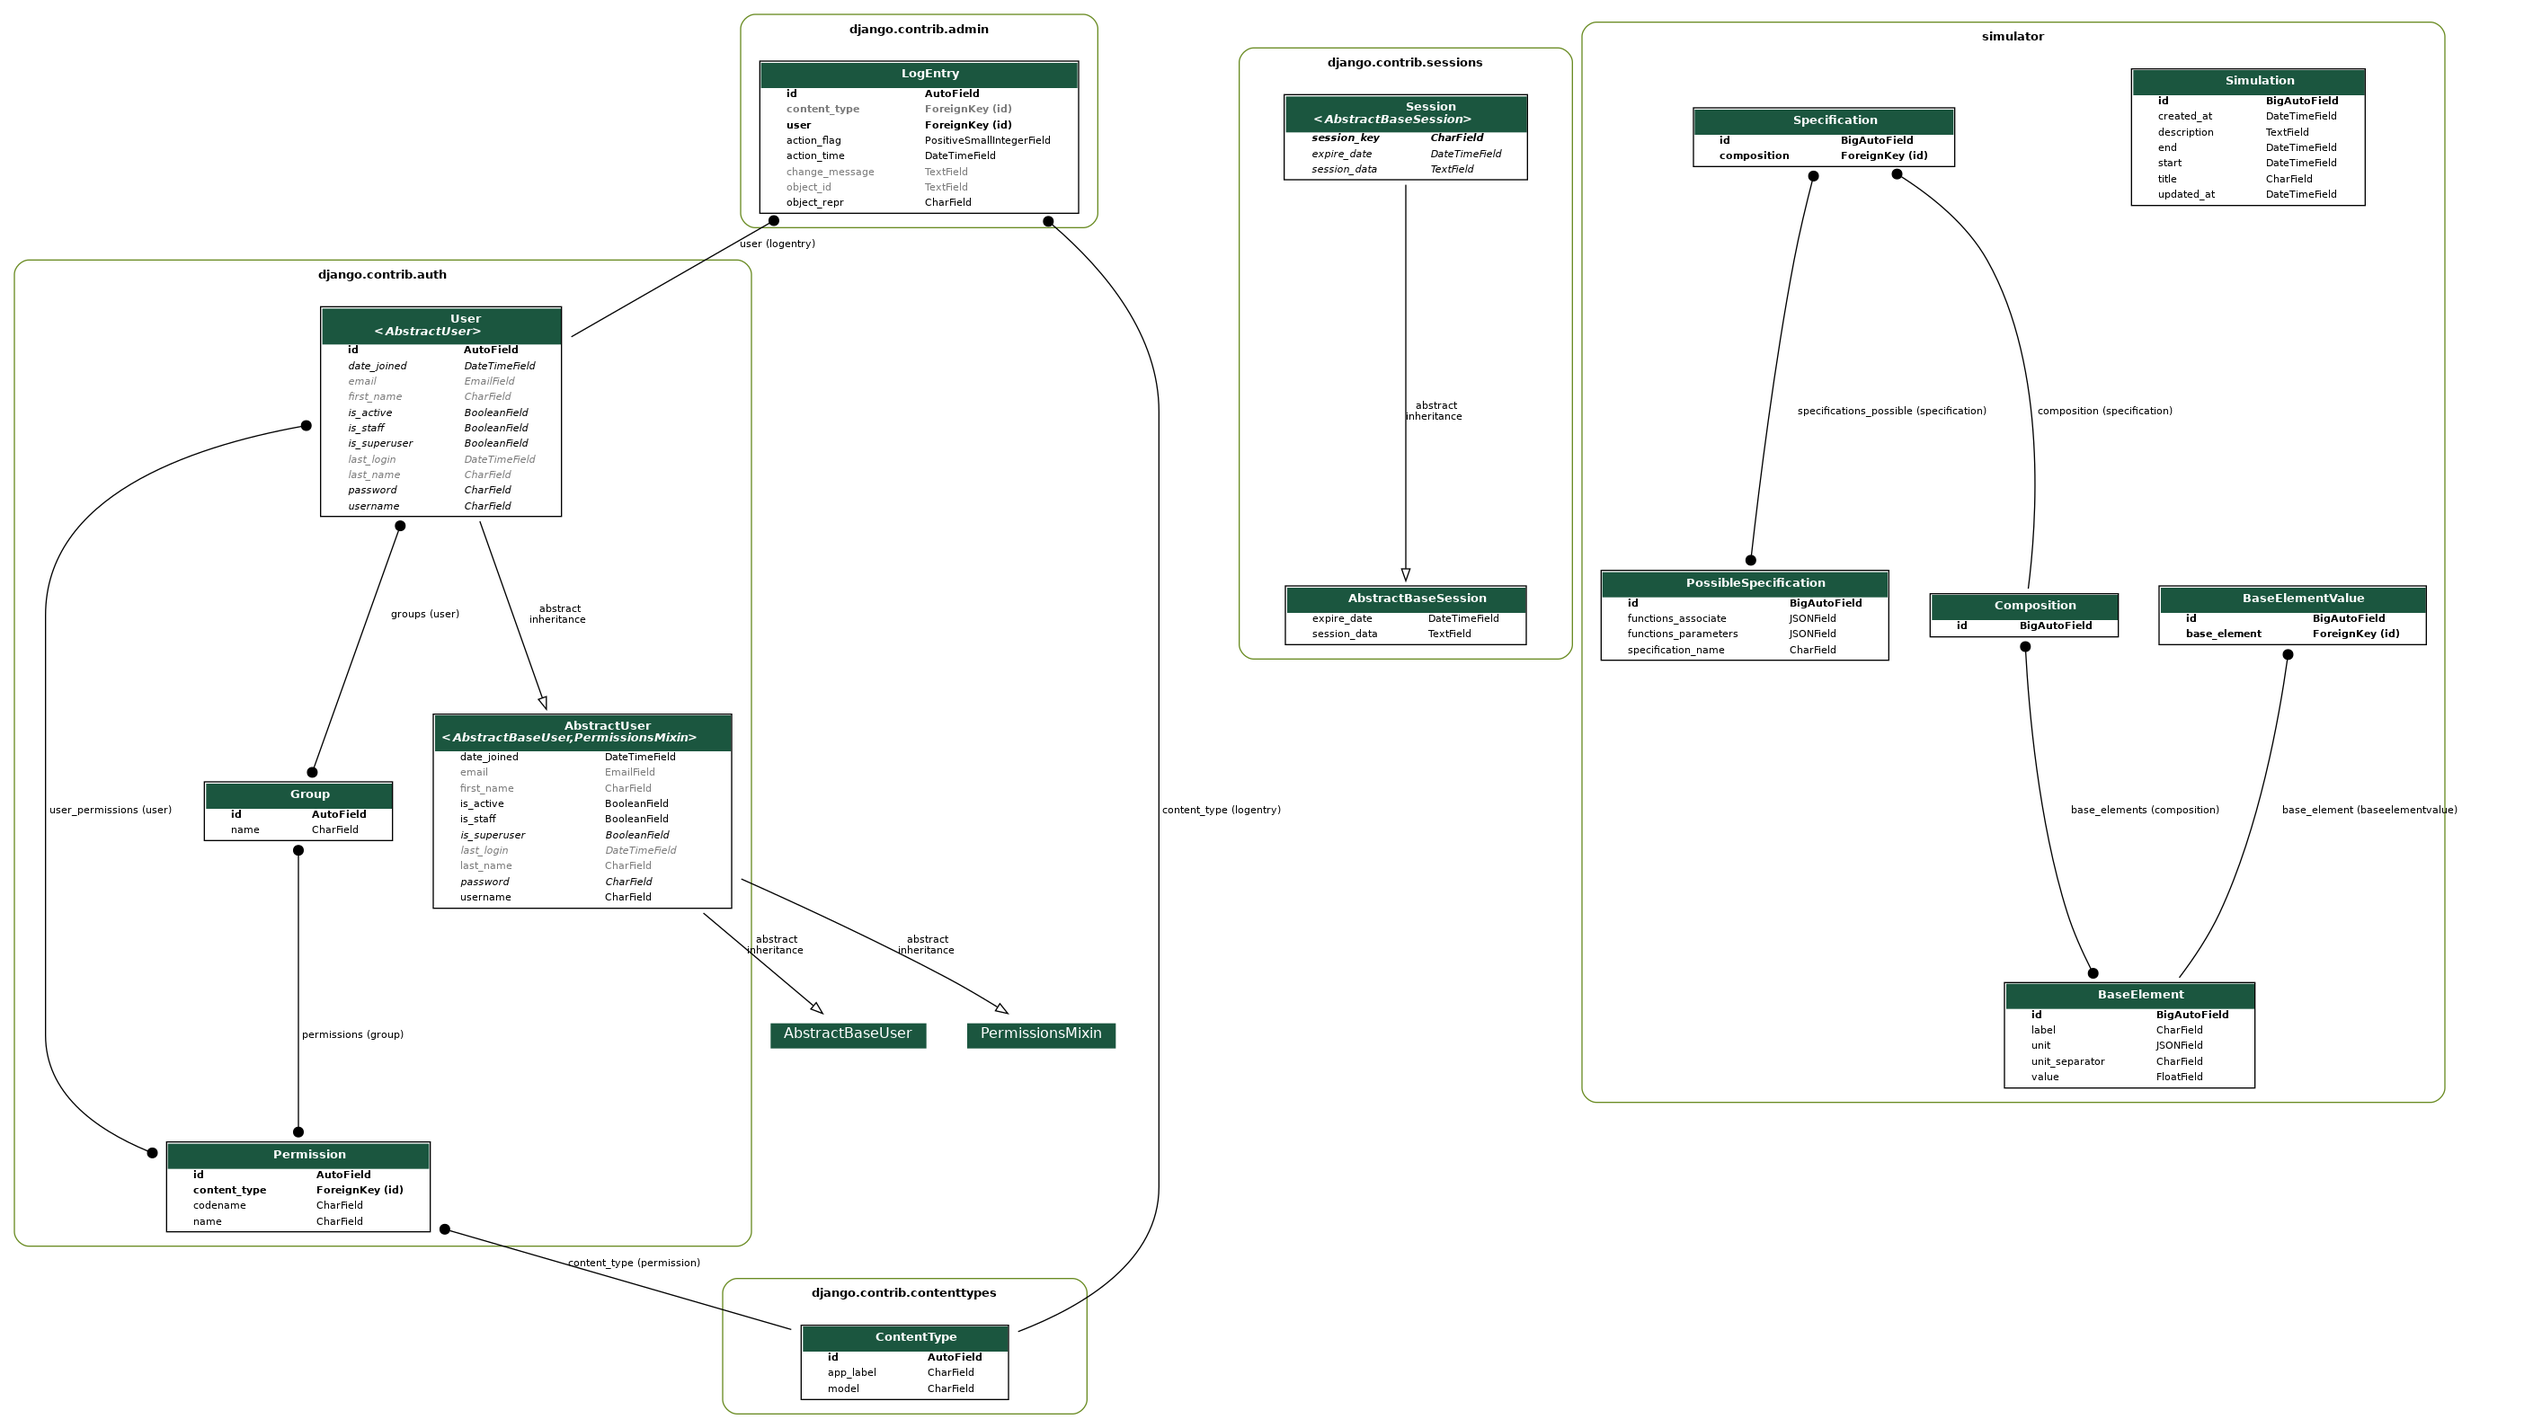
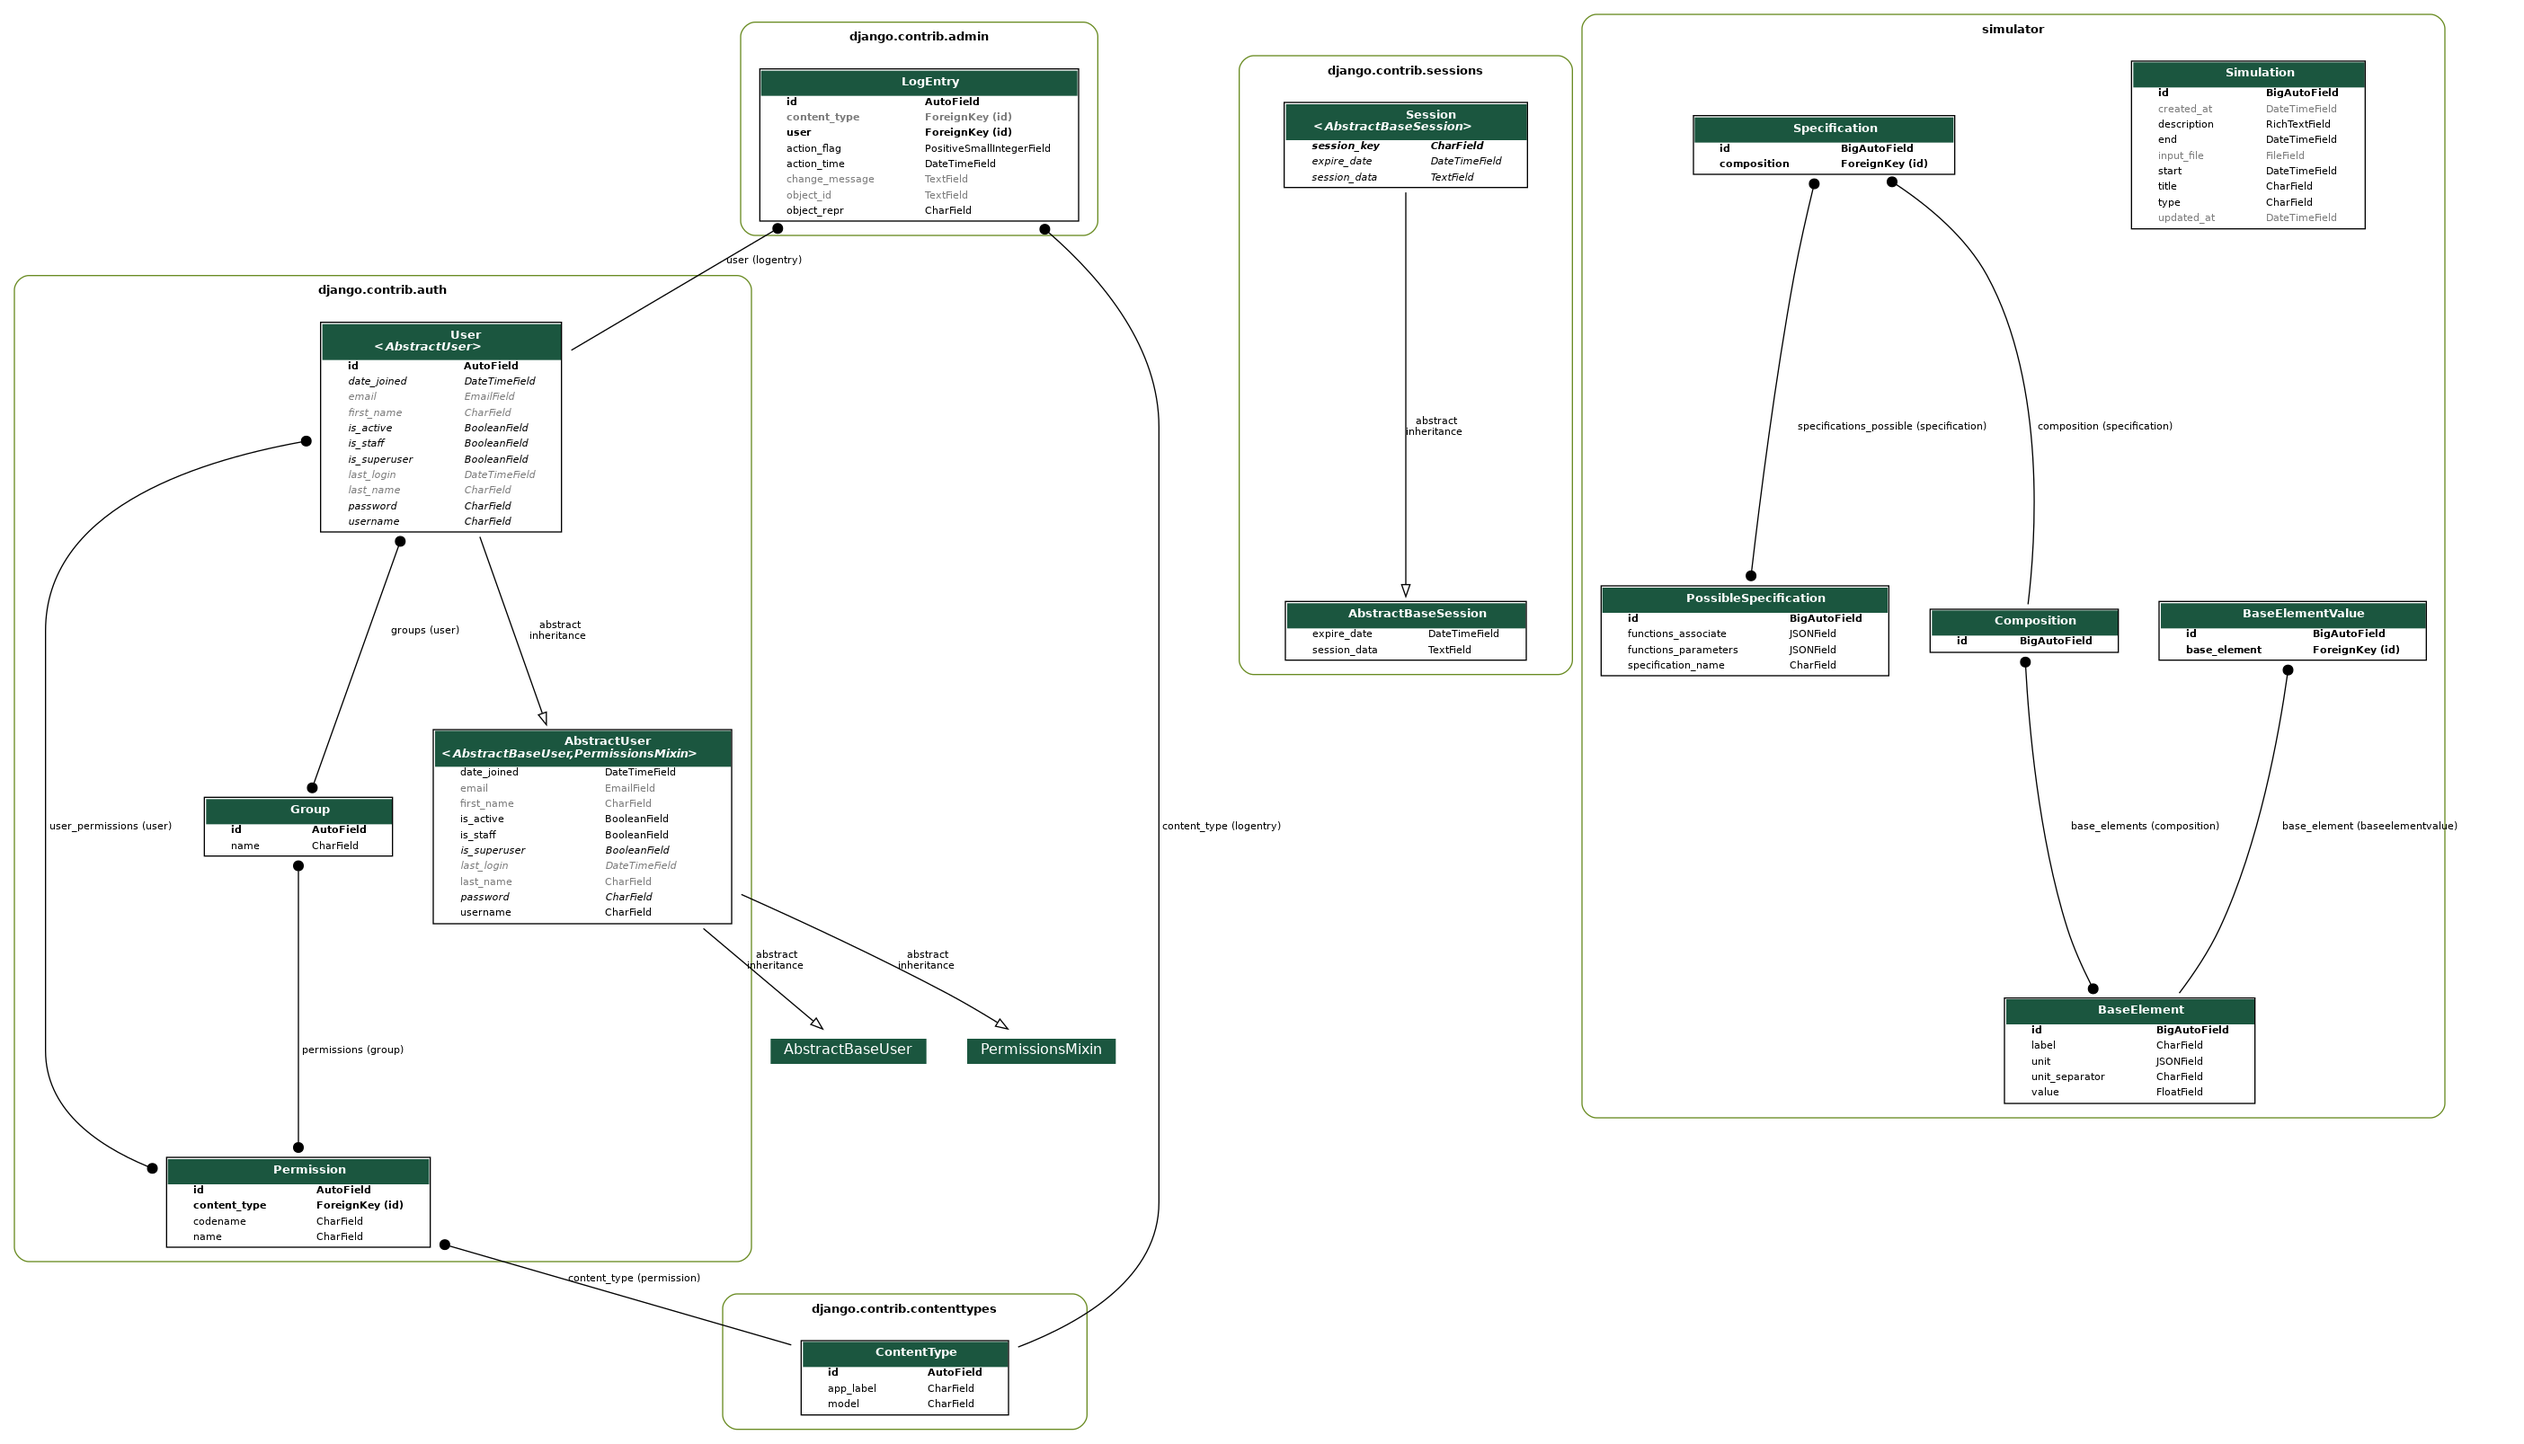
add CRUD system for simulation

diff --git a/web/simulator/templates/dashboard/index.html b/web/simulator/templates/dashboard/index.html
@@ -1,13 +1,33 @@
 {% extends "base.html" %}
 
 {% block content %} 
-{% load crispy_forms_tags %}
 <div class="container py-5">
-  <h1>Dashboard</h1>
-  <form method="POST" enctype="multipart/form-data">
-    {% csrf_token %}
-    {{ simulation_form|crispy }}
-    <button class="btn btn-primary" type="submit">Make a simulation</button>
-  </form>
+    <h1>Simulation's List</h1>
+    {% if simulations %}
+        <div class="table-responsive">
+            <table class="table">
+                <thead>
+                    <tr>
+                        <th scope="col">Project Name</th>
+                        <th scope="col">Type</th>
+                        <th scope="col">Project Description</th>
+                        <th scope="col">Date Created</th>
+                    </tr>
+                </thead>
+                <tbody>
+                    {% for simulation in simulations %}
+                    <tr>
+                        <td><a href="/detail/{{simulation.id}}">{{ simulation.title|title }}</a></td>
+                        <td>{{ simulation.type }}</td>
+                        <td>{{ simulation.description|safe }}</td>
+                        <td>{{ simulation.created_at|date:'Y/M/d' }}</td>
+                    </tr>
+                    {% endfor %}
+                </tbody>
+            </table>
+        </div>
+    {% else %}
+        <p class="text-center mt-3">There is no simulation created in the system. Do you want to <a href="/new">create one</a> ?</p>
+    {% endif %}
 </div>
 {% endblock %}

diff --git a/web/simulator/templates/base.html b/web/simulator/templates/base.html
@@ -16,7 +16,6 @@
         {% block content %} 
         {% endblock %}
     
-        <!-- Optional Javascript -->
         <script src="https://code.jquery.com/jquery-3.4.1.slim.min.js" integrity="sha384-J6qa4849blE2+poT4WnyKhv5vZF5SrPo0iEjwBvKU7imGFAV0wwj1yYfoRSJoZ+n" crossorigin="anonymous"></script>
         <script src="https://cdn.jsdelivr.net/npm/popper.js@1.16.0/dist/umd/popper.min.js" integrity="sha384-Q6E9RHvbIyZFJoft+2mJbHaEWldlvI9IOYy5n3zV9zzTtmI3UksdQRVvoxMfooAo" crossorigin="anonymous"></script>
         <script src="https://stackpath.bootstrapcdn.com/bootstrap/4.4.1/js/bootstrap.min.js" integrity="sha384-wfSDF2E50Y2D1uUdj0O3uMBJnjuUD4Ih7YwaYd1iqfktj0Uod8GCExl3Og8ifwB6" crossorigin="anonymous"></script>

diff --git a/web/simulator/templates/includes/navbar.html b/web/simulator/templates/includes/navbar.html
@@ -7,8 +7,11 @@
       <ul class="navbar-nav mr-auto">
         {% if user.is_authenticated %}
         <li class="nav-item">
-            <a class="nav-link" href="#">Welcome, {{user.username}}</a>
-          </li>
+            <a class="nav-link" href="/">Welcome, {{user.username}}</a>
+        </li>
+        <li class="nav-item">
+          <a class="nav-link" href="/new">Create simulation</a>
+        </li>
         <li class="nav-item">
           <a class="nav-link" href="/logout">Logout</a>
         </li>

diff --git a/web/simulator/templates/dashboard/new.html b/web/simulator/templates/dashboard/new.html
@@ -1,0 +1,13 @@
+{% extends "base.html" %}
+
+{% block content %} 
+{% load crispy_forms_tags %}
+<div class="container py-5">
+  <h1>Dashboard</h1>
+  <form method="POST" enctype="multipart/form-data">
+    {% csrf_token %}
+    {{ simulation_form|crispy }}
+    <button class="btn btn-primary" type="submit">Make a simulation</button>
+  </form>
+</div>
+{% endblock %}

diff --git a/web/simulator/templates/dashboard/detail.html b/web/simulator/templates/dashboard/detail.html
@@ -1,0 +1,7 @@
+{% extends "base.html" %}
+
+{% block content %} 
+<div class="container py-5">
+    <h1>{{ simulation.title }}</h1>
+</div>
+{% endblock %}

diff --git a/web/simulator/migrations/0001_initial.py b/web/simulator/migrations/0001_initial.py
@@ -1,8 +1,9 @@
-# Generated by Django 3.2.15 on 2022-08-16 17:35
+# Generated by Django 3.2.15 on 2022-08-17 12:27
 
+import ckeditor.fields
 from django.db import migrations, models
 import django.db.models.deletion
-import django.utils.timezone
+import simulator.validators
 
 
 class Migration(migrations.Migration):
@@ -43,12 +44,14 @@ class Migration(migrations.Migration):
             name='Simulation',
             fields=[
                 ('id', models.BigAutoField(auto_created=True, primary_key=True, serialize=False, verbose_name='ID')),
-                ('created_at', models.DateTimeField(default=django.utils.timezone.now)),
-                ('updated_at', models.DateTimeField()),
+                ('created_at', models.DateTimeField(auto_now_add=True)),
+                ('updated_at', models.DateTimeField(auto_now=True, null=True)),
                 ('title', models.CharField(max_length=255)),
-                ('description', models.TextField()),
+                ('description', ckeditor.fields.RichTextField()),
+                ('type', models.CharField(choices=[('sas', 'Stand Alone Storage'), ('pvs', 'PV + Storage'), ('ws', 'Wind + Storage'), ('ma', 'Mobility Applications')], default='sas', max_length=100)),
                 ('start', models.DateTimeField()),
                 ('end', models.DateTimeField()),
+                ('input_file', models.FileField(blank=True, null=True, upload_to='inputs/', validators=[simulator.validators.validate_file_extension])),
             ],
         ),
         migrations.CreateModel(

diff --git a/web/simulator/views.py b/web/simulator/views.py
@@ -1,4 +1,5 @@
-from django.shortcuts import render, redirect
+from gc import get_objects
+from django.shortcuts import render, redirect, get_object_or_404
 from django.contrib.auth import login, authenticate, logout
 from django.contrib import messages
 from django.contrib.auth.forms import AuthenticationForm
@@ -18,6 +19,11 @@ from .models import Simulation
 
 @login_required(login_url="simulator:login")
 def index(request):
+    simulations = Simulation.objects.all()
+    return render(request, "dashboard/index.html", {"simulations": simulations})
+
+@login_required(login_url="simulator:login")
+def new(request):
     if request.method == "POST":
         form = SimulationForm(request.POST, request.FILES)
         if form.is_valid():
@@ -33,8 +39,16 @@ def index(request):
         messages.error(request, "An error appear : " + message)
 
     form = SimulationForm()
-    simulations = Simulation.objects.all()
-    return render(request, 'dashboard/index.html', {"simulation_form": form, "simulations": simulations})
+    return render(request, 'dashboard/new.html', {"simulation_form": form})
+
+@login_required(login_url="simulator:login")
+def detail(request, id):
+    simulation = get_object_or_404(Simulation, id=id)
+    return render(request, "dashboard/detail.html", {
+        "simulation": simulation
+    })
+        
+    redirect("simulator:index")
 
 
 def register_request(request):

diff --git a/web/simulator/models.py b/web/simulator/models.py
@@ -16,14 +16,22 @@ class Enums:
         ('/', 'By')
     )
 
+    SIMULATION_TYPES = (
+        ("sas", "Stand Alone Storage"),
+        ("pvs", "PV + Storage"),
+        ("ws", "Wind + Storage"),
+        ("ma", "Mobility Applications")
+    )
+
 class Simulation(models.Model):
     created_at = models.DateTimeField(auto_now_add=True)
     updated_at = models.DateTimeField(auto_now=True, null=True)
     title = models.CharField(max_length=255)
     description = RichTextField()
+    type = models.CharField(max_length=100, choices=Enums.SIMULATION_TYPES, default=Enums.SIMULATION_TYPES[0][0])
     start = models.DateTimeField()
     end = models.DateTimeField()
-    input_file = models.FileField(upload_to="inputs/", null=True, validators=[validate_file_extension])
+    input_file = models.FileField(upload_to="inputs/", blank=True, null=True, validators=[validate_file_extension])
     #user = models.ForeignKey('User', on_delete=models.CASCADE)
 
     def __str__(self) -> str:

diff --git a/web/simulator/urls.py b/web/simulator/urls.py
@@ -4,7 +4,9 @@ from . import views
 app_name = "simulator"
 
 urlpatterns = [
-    path('', views.index, name='index'),
+    path('', views.index, name="index"),
+    path('new', views.new, name='new'),
+    path('detail/<int:id>', views.detail, name='detail'),
     path("register", views.register_request, name="register"),
     path("login", views.login_request, name="login"),
     path("logout", views.logout_request, name= "logout"),

diff --git a/web/simulator/forms.py b/web/simulator/forms.py
@@ -22,8 +22,7 @@ class SimulationForm(forms.ModelForm):
 		model = Simulation
 		fields = '__all__'
 		exclude = ('created_at', "updated_at")
-		widget = {
-	        'start': forms.SelectDateWidget(
-				empty_label=("Choose Year", "Choose Month", "Choose Day"),
-			),
-		}
+		
+	def __init__(self, *args, **kwargs):
+		super(SimulationForm, self).__init__(*args, **kwargs)
+		self.fields['input_file'].required = False
